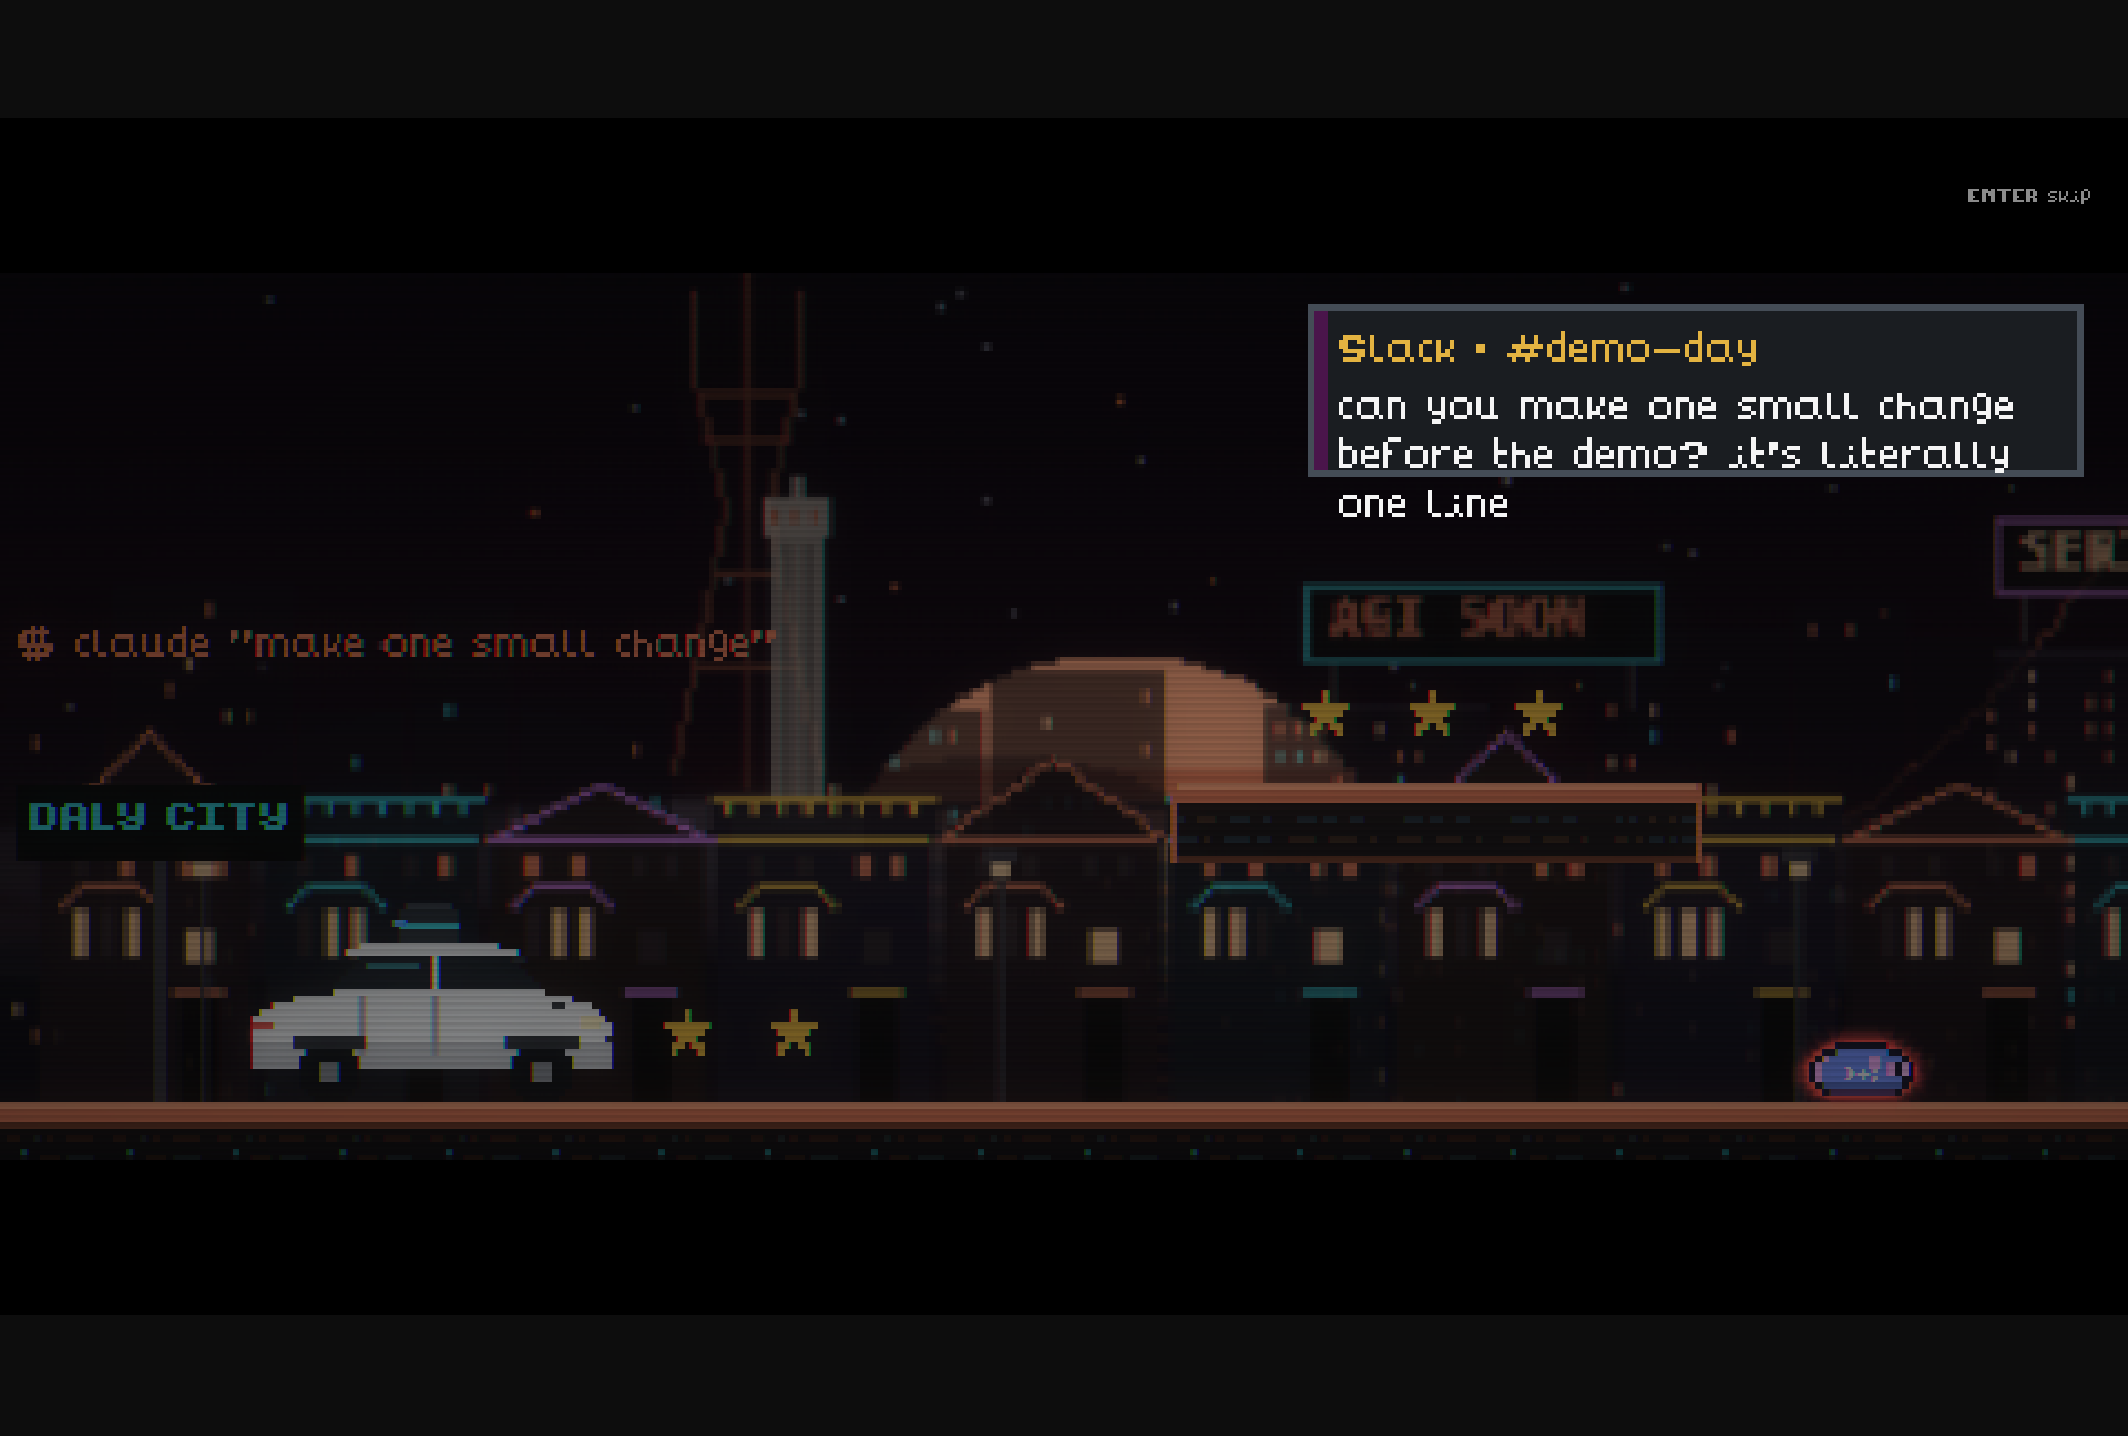
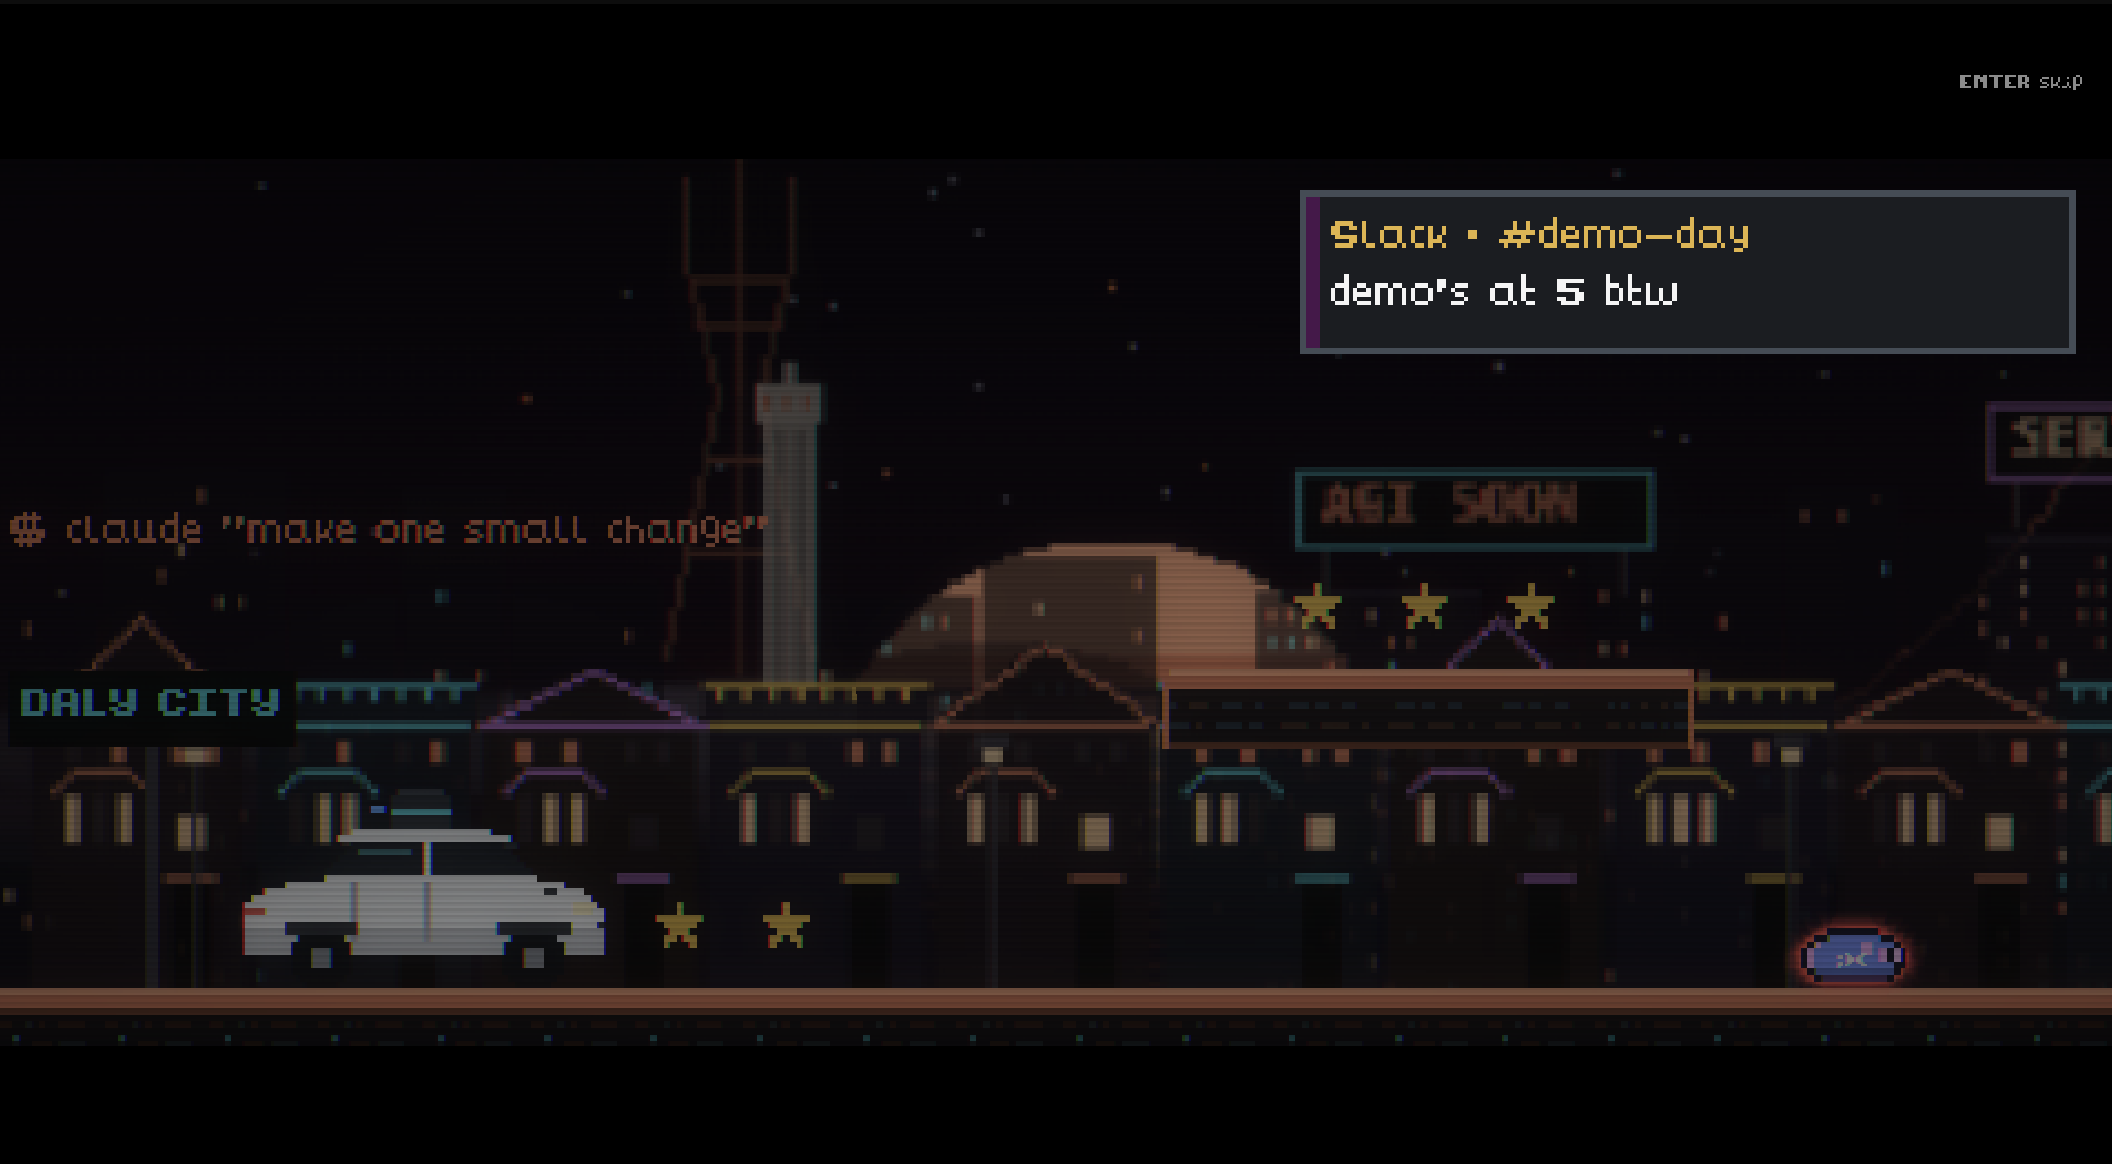
README: add the title screenshot and swap in cleaner captures for the intro, boss, and win screen

diff --git a/README.md b/README.md
@@ -46,12 +46,12 @@ Live URL checked 2026-09-26: HTTP 200, deployed from `master` at `1d9b806`.
 ## Product walkthrough
 
 **1. Title screen.** A terminal window with the controls, `V` to set up the microphone, and `G`
-to toggle god mode for live demos. *(screenshot pending)*
+to toggle god mode for live demos (shown on).
 
 ![Title screen](docs/screenshots/01-title.png)
 
 **2. The hook.** The robotaxi pulls up and `#demo-day` asks for one small change, then dark
-mode, then reminds you the demo is at 5.
+mode, then reminds you the demo is at 5 (the last ping is shown).
 
 ![Slack ping during the intro](docs/screenshots/02-intro-slack-ping.png)
 
@@ -82,8 +82,10 @@ heads answer, and the boss card lands.
 ![Context Rot Hydra title card](docs/screenshots/07-boss-title-card.png)
 
 **8. Readable boss attacks.** Every attack has a 600 ms wind-up. The image-flood head marks its
-drop lanes before the tiles fall, and always leaves three adjacent lanes clear. The HUD
-separates boss health from context growth and counts down to the next growth.
+drop lanes (the image icons along the top) before the tiles fall, and always leaves three
+adjacent lanes clear. The HUD separates boss health from context growth; here the context
+meter reads FULL, the cue to say *refactor*, while a head insists your laptop is the bug and
+the spawner has dropped two flaming skulls.
 
 ![Flood lanes marked before they drop](docs/screenshots/08-boss-telegraphed-flood.png)
 
